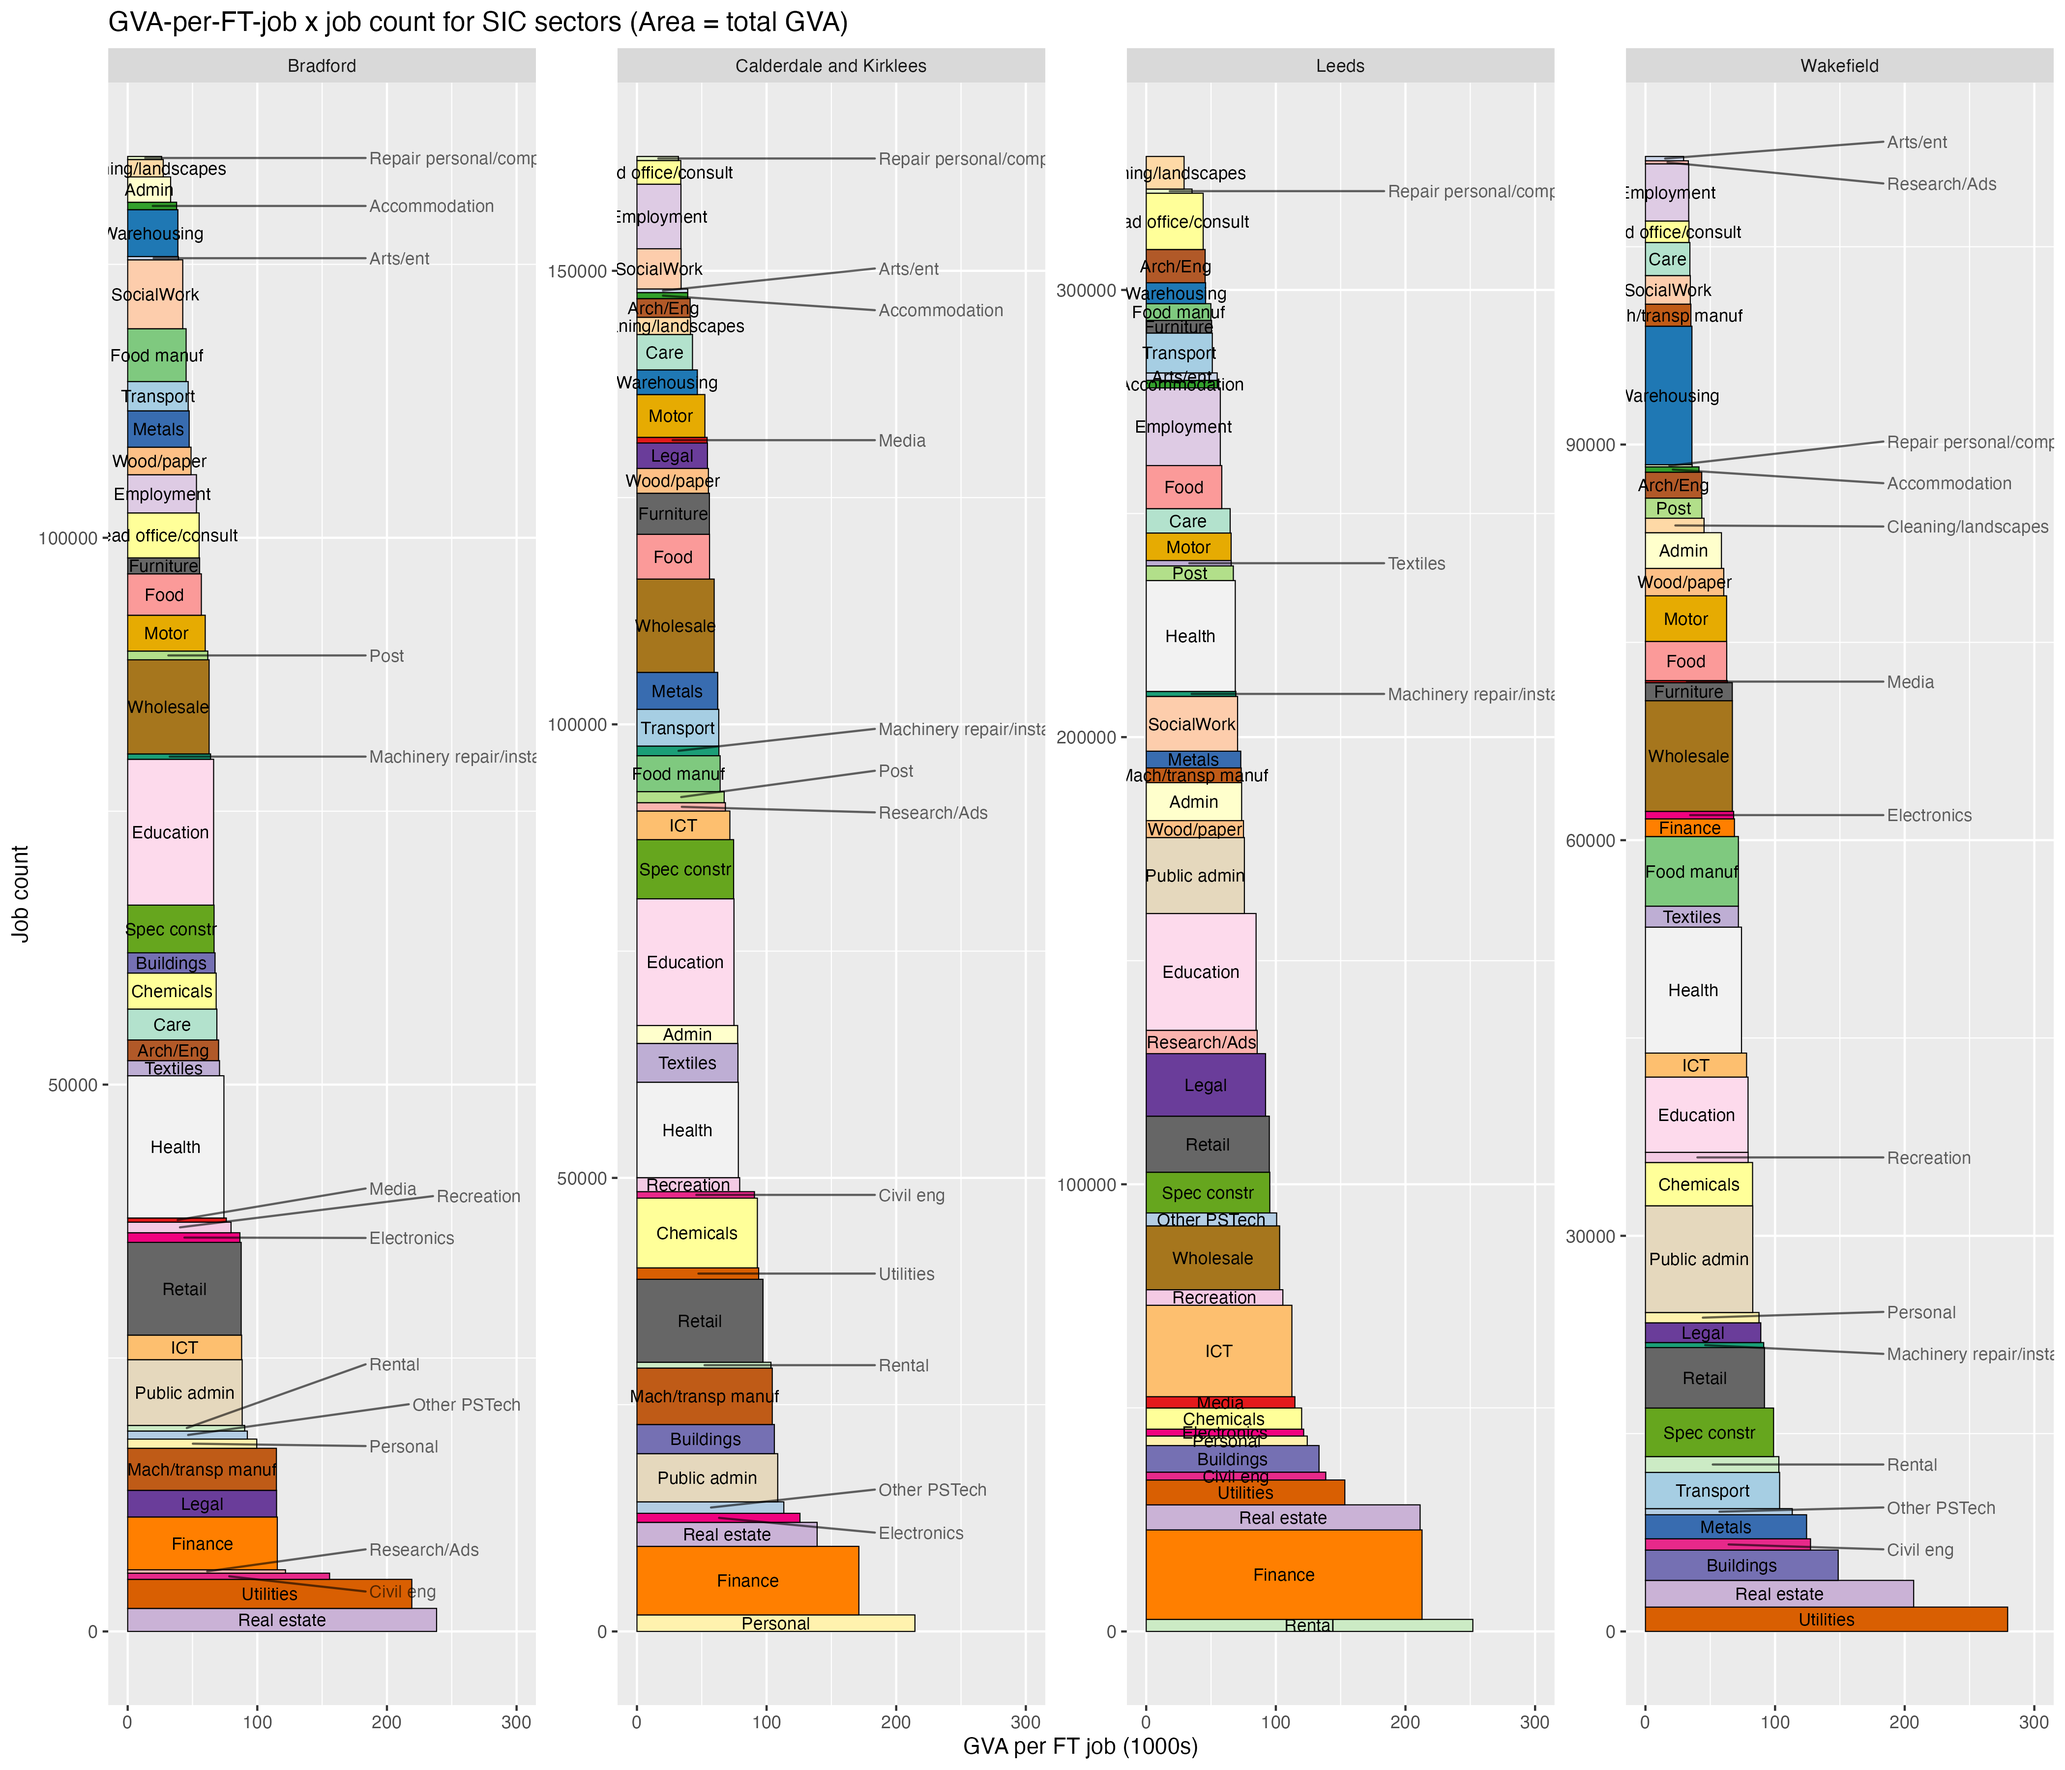
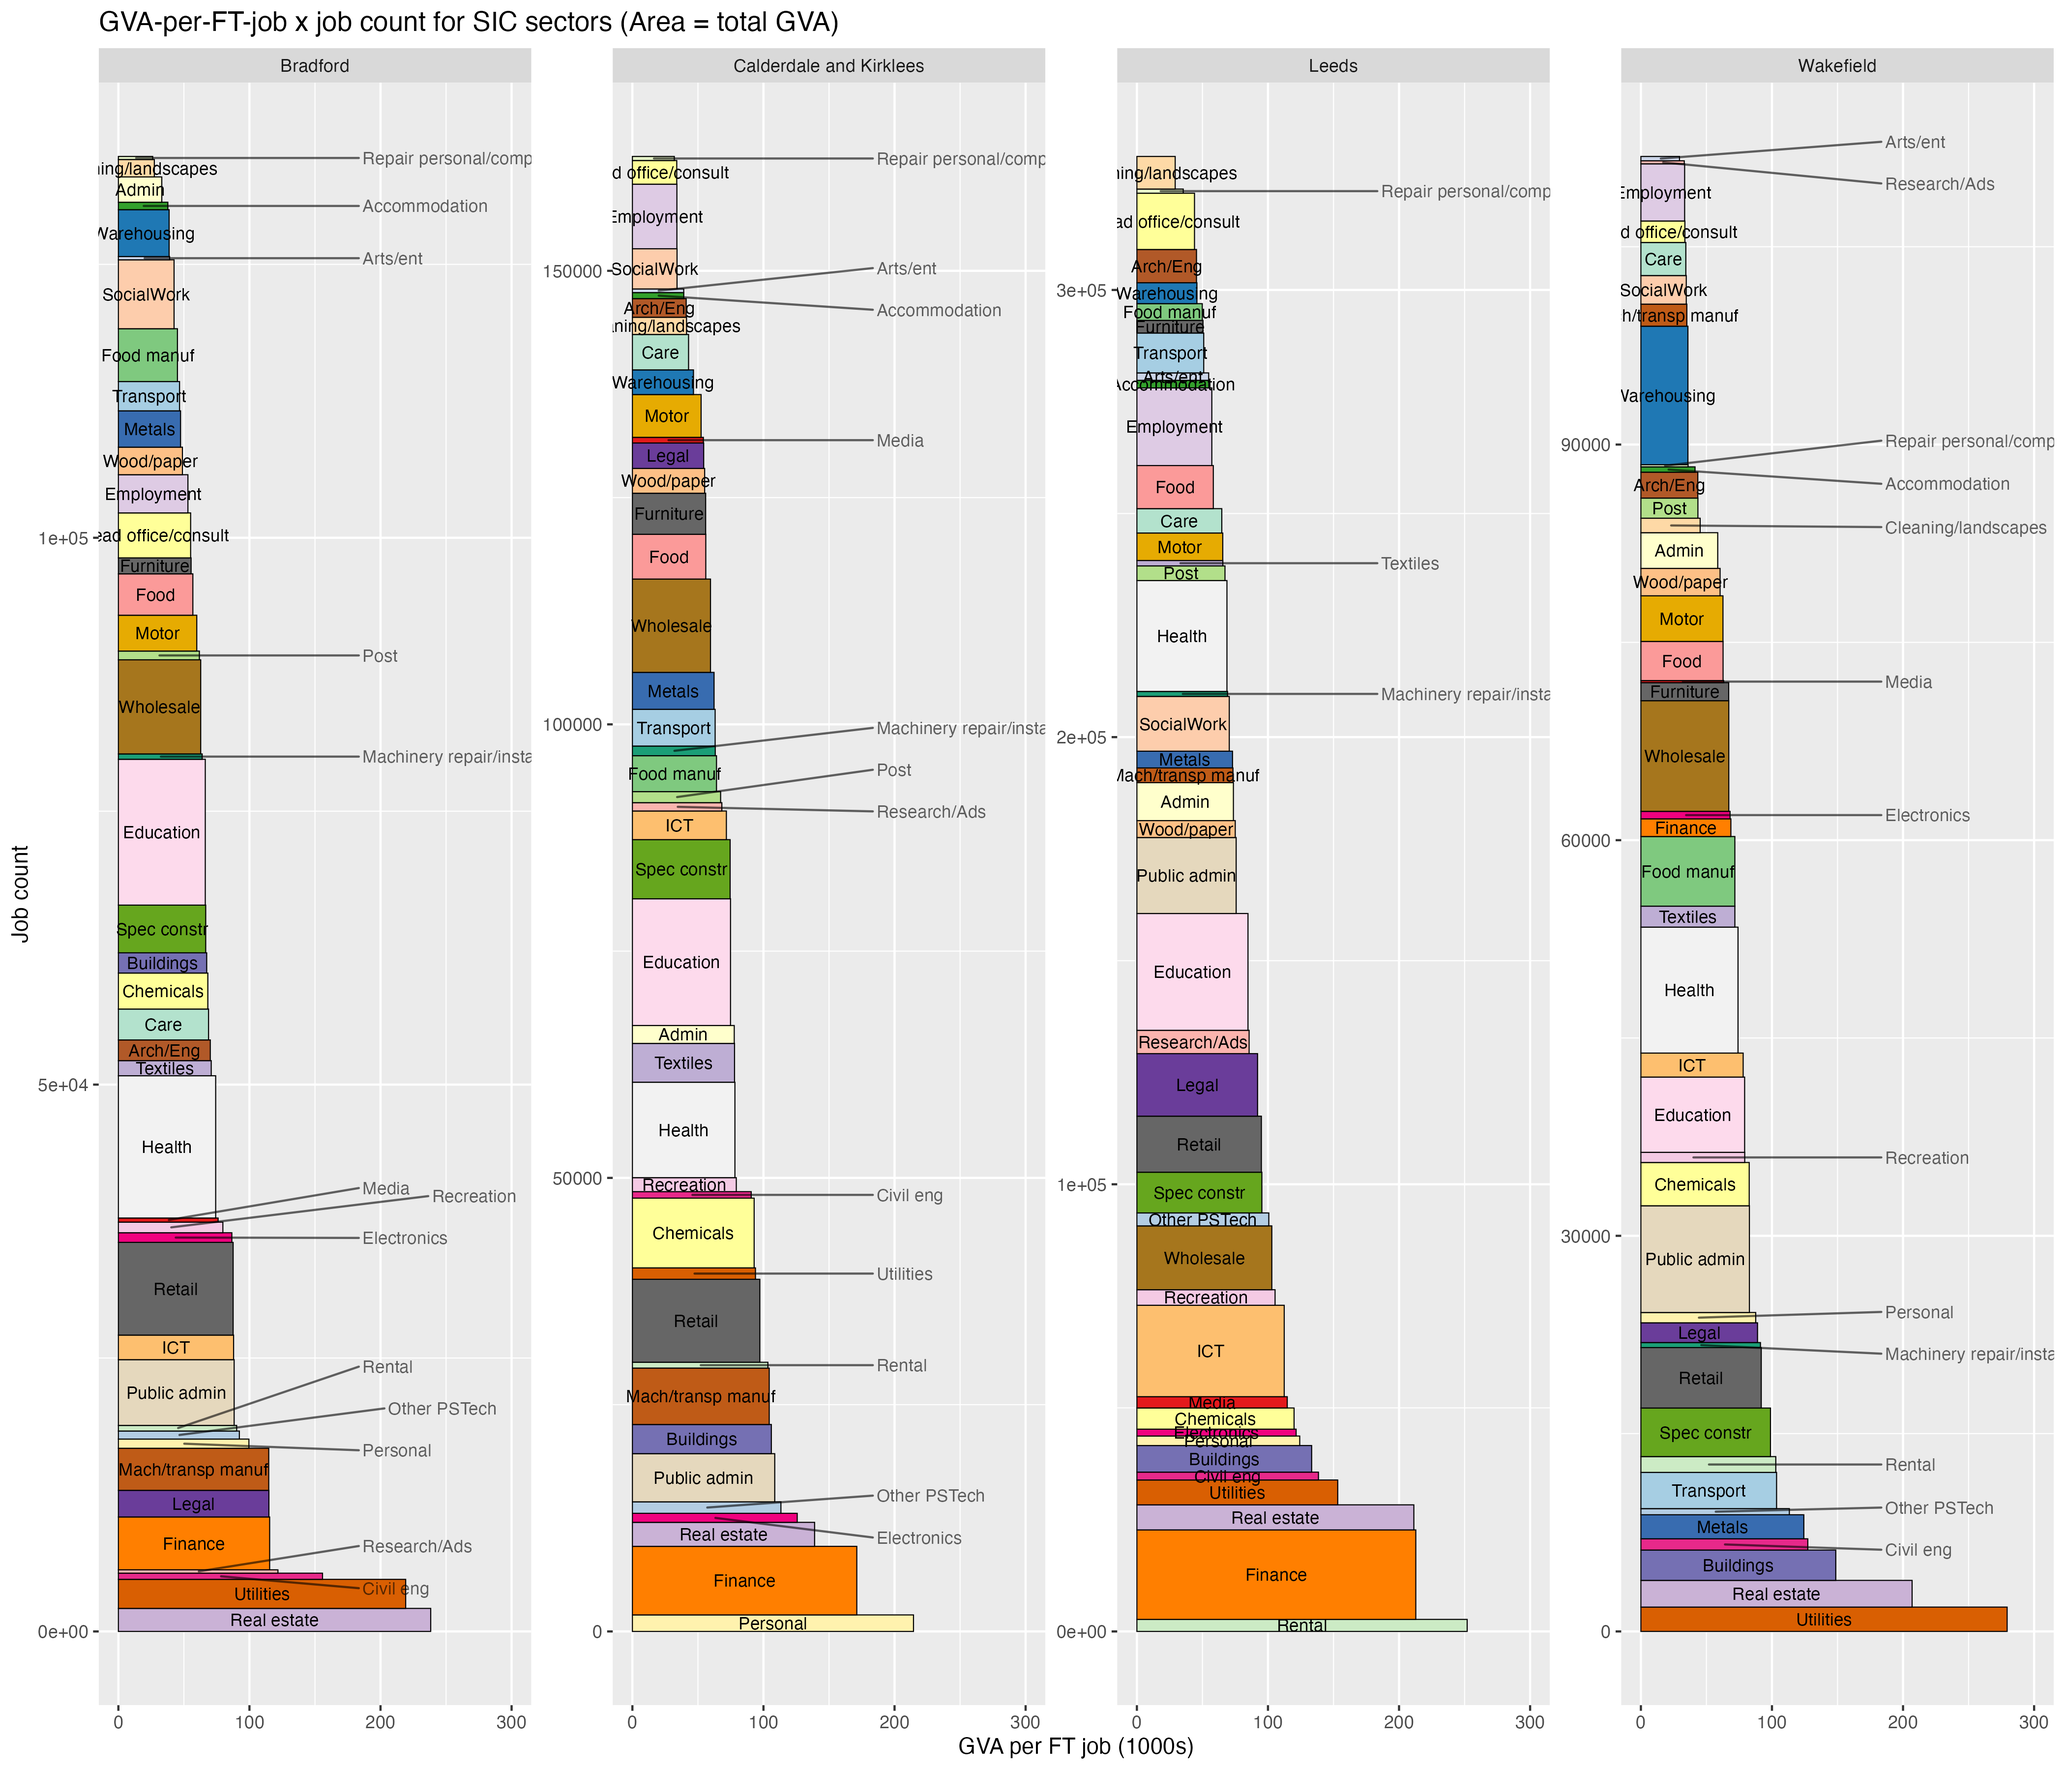
GVA x jobs slides draft

diff --git a/docs/setupRonline_n_getstarted_revealjs.html b/docs/setupRonline_n_getstarted_revealjs.html
@@ -211,6 +211,8 @@
 
 <ul>
 <li>RStudio in posit.cloud is <strong>free for the most basic version</strong> (1GB memory, 25 projects). That’s plenty for a lot of stuff. There are paid tiers too, if you want to do heavier things (and avoid all installing-R-on-work-machine pain).</li>
+<li>With the free version, you get 25 ‘compute hours’ a month (which is calculated in a <a href="https://support.posit.co/hc/en-us/articles/4422648539031-Compute-Hours-and-the-Background-Execution-Limit-in-Posit-Cloud#:~:text=The%20article%20will%20explain%20how,allows%20the%20project%20to%20complete.">mildly confusing way</a> but should be fine for occasional use).</li>
+<li>Pricing for more compute power and time is <a href="https://posit.cloud/plans">pretty reasonable</a>, if you end up wanting more.</li>
 </ul>
 </section>
 <section>
@@ -245,8 +247,9 @@
 <h1>2. Using RStudio</h1>
 
 </section>
-<section id="you-should-now-have-rstudio-open-in-your-posit.cloud-account" class="slide level2">
-<h2>You should now have RStudio open in your posit.cloud account…</h2>
+<section class="slide level2">
+
+<p><strong>You should now have RStudio open in your posit.cloud account…</strong></p>
 <p>It should look something like the pic below.</p>
 <div class="center">
 <p><img data-src="quarto_docs/images/emptyrstudio.png"></p>
@@ -447,7 +450,7 @@
 <section class="slide level2">
 
 <ul>
-<li>The code will plot GVA vs GVA-per-fulltime-job in sector blocks, stacked in order of productivity (gva per full time job). We get to see some interesting things.</li>
+<li>The code will <strong>plot GVA vs GVA-per-fulltime-job in sector blocks, stacked in order of productivity</strong> (gva per full time job). It can be a revealing way to look at productivity.</li>
 <li>It’s done at ITL3 level, and we can select ITL3s within a particular ITL2 (e.g.&nbsp;West Yorkshire, South Yorkshire…)</li>
 <li><a href="">Here’s a blog post</a> talking through the data and resulting questions in a bit more detail.</li>
 </ul>
@@ -475,16 +478,67 @@
 </div>
 </div>
 </section>
+<section id="if-youre-pasting-code-from-the-clipboard" class="slide level2">
+<h2>If you’re pasting code from the clipboard…</h2>
+<ul>
+<li>Either make a new script again, as we did in <a href="setupRonline_n_getstarted_revealjs.html#/making-a-new-r-script-in-rstudio">this slide</a>. It’ll open in a new tab.</li>
+<li>Or just delete the code from your existing R script and paste into that.</li>
+</ul>
+</section>
 <section class="slide level2">
 
 <ul>
-<li>Once that code is into an R script, we can <strong>run it chunk by chunk from top to bottom</strong>, as described in <a href="setupRonline_n_getstarted_revealjs.html#/5/6">this slide earlier</a>.</li>
-<li>Comments in the script talk through what each chunk is doing.</li>
+<li>Once that code is into an R script, we can <strong>run it chunk by chunk from top to bottom</strong>, as described in <a href="setupRonline_n_getstarted_revealjs.html#/5/6">this slide earlier</a> - <strong>run each code chunk by placing the cursor there and either using CMD/CTRL + ENTER or using the ‘run’ button.</strong></li>
+<li>Comments in the script talk through what each chunk is doing - <strong>the next couple of slides explain one or two key things.</strong></li>
 <li>You can also select all text with CTRL or CMD + A - and then CTRL/CMD + ENTER will run the whole thing in one go.</li>
 </ul>
 </section>
 <section class="slide level2">
 
+<ul>
+<li>So: run all the first lines loading libraries (and installing ggrepel)</li>
+<li>Then load the combined GVA and BRES jobs data (see pic)</li>
+</ul>
+<div class="center">
+<p><img data-src="quarto_docs/images/bresdataload.png" width="600"></p>
+</div>
+</section>
+<section class="slide level2">
+
+<ul>
+<li>You’ll know that’s run OK if <em>bres.gva.2d</em> has appeared in the environment panel - <strong>click anywhere on its name in that panel to view the data.</strong></li>
+</ul>
+<div class="center">
+<p><img data-src="quarto_docs/images/bresinpanel.png" width="450"></p>
+</div>
+</section>
+<section id="if-you-want-different-geographies" class="slide level2">
+<h2>If you want different geographies</h2>
+<ul>
+<li>Then you’ll want to tweak the code the sets the <em>listofplaces</em> (from line 40). There are a couple of options.</li>
+<li><strong>Use the geog lookup that’s loaded in.</strong> You can get all ITL3 zones within e.g.&nbsp;the West Yorkshire ITL2 (this is the default). See pic - either set the name directly or use the grepl line to search for a partial match.</li>
+</ul>
+<div class="center">
+<p><img data-src="quarto_docs/images/setitl2.png" width="450"></p>
+</div>
+</section>
+<section class="slide level2">
+
+<ul>
+<li>You’ve also got the option of setting the ITL3 name directly, either by a regex search or in a string - see the next few lines in the script for examples.</li>
+<li>Then <strong>run the rest of the code to make the plot</strong>. It should look something like the example on the next slide. Picking out a couple of things to note:</li>
+<li><strong>Finance</strong> is fewer-jobs but large output (the area of the plot is total GVA) and large in all but one ITL3 here.</li>
+<li>Note <strong>warehousing</strong> in Wakefield: many jobs, but average output per job is low.</li>
+</ul>
+</section>
+<section class="slide level2">
+
+<div class="center">
+<p><img data-src="quarto_docs/images/gvabyjobsplot.png"></p>
+</div>
+</section>
+<section id="view-and-save-the-plot" class="slide level2">
+<h2>View and save the plot</h2>
 <ul>
 <li>You may need to click on the ‘Plots’ panel to see the output.</li>
 <li>Use the ‘Zoom’ option to pop out a resizeable view of the plot.</li>
